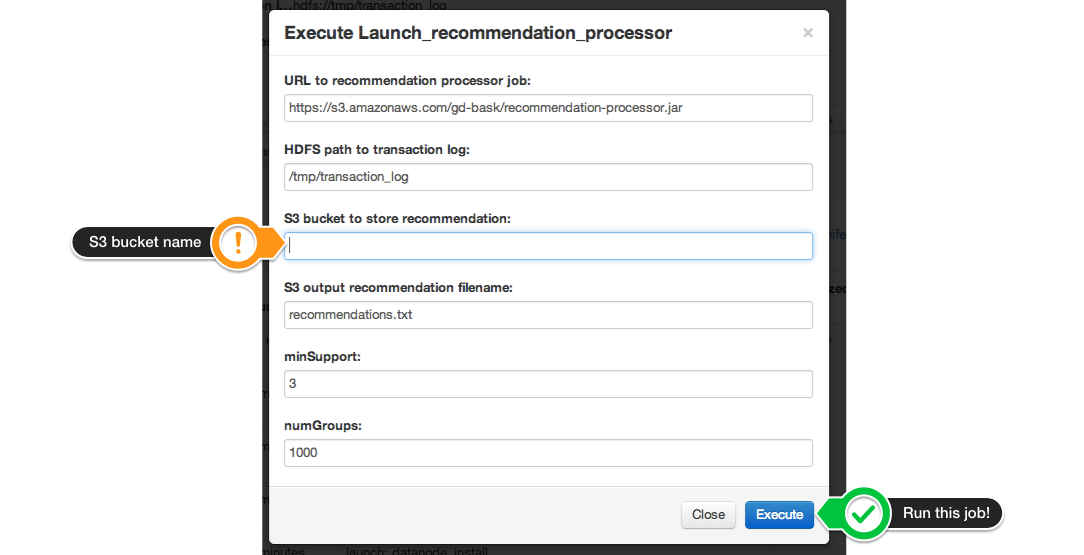
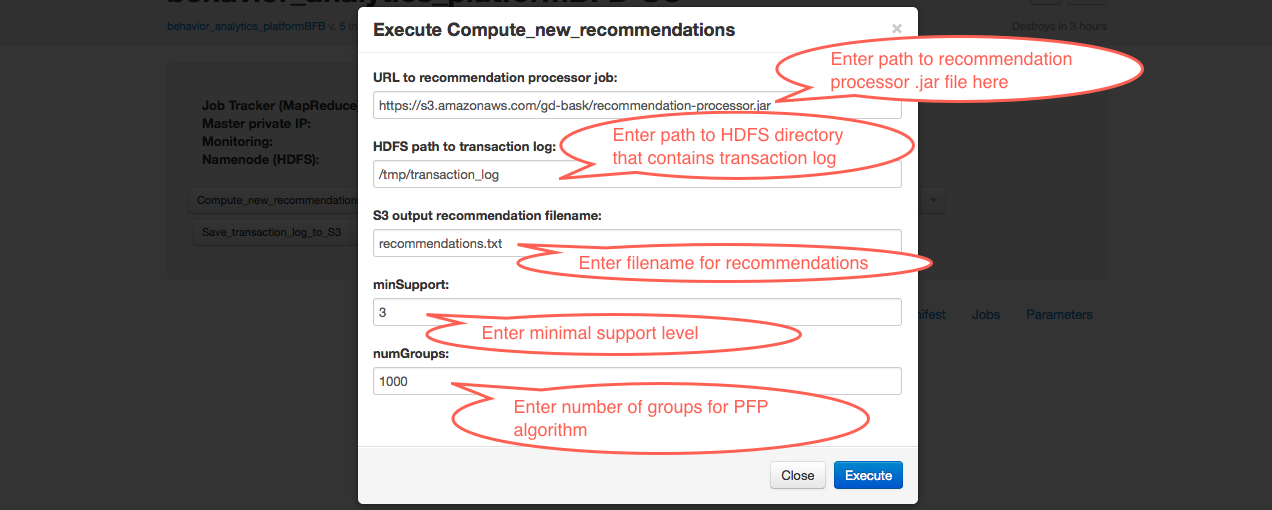
Compute new recommendations updated

diff --git a/docs/Getting-started--Run-recommendation-processor.md b/docs/Getting-started--Run-recommendation-processor.md
@@ -1,7 +1,7 @@
-Launch recommendations processor
------------------------------
+Compute new recommendations
+---------------------------
 
-Press “Launch recommendation processor” button on behavior analytics platform application output panel to launch 
+Press “Compute new recommendations” button on behavior analytics platform application output panel to launch 
 [recommendation processor](Developer-Guide--Behavior-Analytics-Platform--Recommendation-Processor.md) on transaction log and get recommendations. 
 You can configure recommendation processor default parameters before job start. 
 
@@ -9,13 +9,13 @@ You can configure recommendation processor default parameters before job start.
 
 Following parameters can be configured: 
 * URL to recommendation processor job, 
-* HDFS path to transaction log, 
-* S3 bucket and filename for recommendations output on your private S3, 
+* HDFS path to the directory contains transaction log, 
+* Filename for recommendations output on your private S3, 
 * Minimal support level for PFP algorithm, 
 * Number of groups for parallel processing 
-After job completed recommendations will be automatically put to specified S3.
+After job completed recommendations will be automatically put to your S3 bucket.
 
 ![launch recommendation proccessor dialog][launch_recommendation_proccessor_dialog]
 
-[launch_recommendation_proccessor_dialog]: https://raw.github.com/griddynamics/Behavior-Analytic-Starter-Kit/master/docs/images/Developer%20Guide/launch_recommendation_proccessor_dialog.png
-[launch_recommendation_processor]: https://raw.github.com/griddynamics/Behavior-Analytic-Starter-Kit/master/docs/images/Developer%20Guide/launch_recommendation_processor.png
+[launch_recommendation_proccessor_dialog]: images/Developer%20Guide/launch_recommendation_proccessor_dialog.png
+[launch_recommendation_processor]: images/Developer%20Guide/launch_recommendation_processor.png
